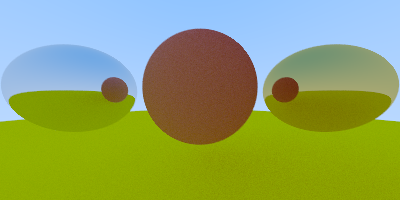
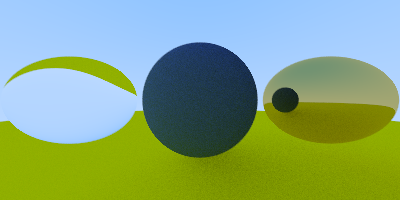
add refractive materials (with stack overflow possibility)

diff --git a/src/materials.rs b/src/materials.rs
@@ -53,11 +53,11 @@ impl Material for Lambertian {
 
 /// Represent reflective surfaces that reflect rays
 #[derive(Clone)]
-pub struct Metal {
+pub struct Reflective {
     albedo: Vec3,
 }
 
-impl Metal {
+impl Reflective {
     pub fn new(albedo: Vec3) -> Self {
         Self { albedo }
     }
@@ -67,7 +67,7 @@ impl Metal {
     }
 }
 
-impl Material for Metal {
+impl Material for Reflective {
     fn scatter(&self, r_in: &Ray, hit: &Hit) -> Option<(Vec3, Ray)> {
         let reflected = Self::reflect(r_in.direction().unit_vec(), hit.normal);
         let scattered = Ray::new(hit.p, reflected);
@@ -79,5 +79,54 @@ impl Material for Metal {
             return Some((attenuation, scattered));
         }
         None
+    }
+}
+
+/// Represent refractive materials that change rays angles
+/// I don't know why it was called dielectric...
+/// FWIW water is definitely not dielectric.
+#[derive(Clone)]
+pub struct Refractive {
+    refractive_index: f32,
+}
+
+impl Refractive {
+    pub fn new(refractive_index: f32) -> Self {
+        Self { refractive_index }
+    }
+
+    fn reflect(v: Vec3, n: Vec3) -> Vec3 {
+        v - 2.0 * v.dot(n) * n
+    }
+
+    fn refract(uv: Vec3, n: Vec3, ni_over_nt: f32) -> Option<Vec3> {
+        let dot = uv.dot(n);
+        let discriminant = 1.0 - ni_over_nt.powi(2) * (1.0 - dot * dot);
+        if discriminant > 0.0 {
+            return Some(ni_over_nt * (uv - n * dot) - n * discriminant.sqrt());
+        }
+        None
+    }
+}
+
+impl Material for Refractive {
+    fn scatter(&self, r_in: &Ray, hit: &Hit) -> Option<(Vec3, Ray)> {
+        let reflected = Self::reflect(r_in.direction().unit_vec(), hit.normal);
+        let (outward_normal, ni_over_nt) = if r_in.direction().dot(hit.normal) > 0.0 {
+            (-hit.normal, self.refractive_index)
+        } else {
+            (hit.normal, 1.0 / self.refractive_index)
+        };
+        let refracted = Self::refract(r_in.direction(), outward_normal, ni_over_nt);
+        let attenuation = Vec3::new(1.0, 1.0, 1.0);
+        // It's ineteresting that the following code overflows stack
+        // refracted
+        //     .map(|refracted| Some((attenuation, Ray::new(hit.p, refracted))))
+        //     .unwrap_or(Some((attenuation, Ray::new(hit.p, reflected))))
+        if let Some(refracted) = refracted {
+            return Some((attenuation, Ray::new(hit.p, refracted)));
+        } else {
+            return Some((attenuation, Ray::new(hit.p, reflected)));
+        }
     }
 }

diff --git a/src/main.rs b/src/main.rs
@@ -7,7 +7,7 @@ use image::{ImageBuffer, Rgb};
 use rand::Rng;
 use rt_in_1_weekend::{
     color,
-    materials::{Lambertian, Metal},
+    materials::{Lambertian, Reflective, Refractive},
     scene::{Camera, Sphere},
     utils, Surface,
 };
@@ -19,12 +19,12 @@ const DEPTH: i32 = 10;
 fn world<'a>() -> Vec<Box<dyn Surface>> {
     let mut world: Vec<Box<dyn Surface>> = vec![];
 
-    let diffuse1 = Box::new(Lambertian::new(Vec3::new(0.8, 0.3, 0.3)));
+    let diffuse1 = Box::new(Lambertian::new(Vec3::new(0.1, 0.2, 0.5)));
     let diffuse2 = Box::new(Lambertian::new(Vec3::new(0.8, 0.8, 0.0)));
-    let reflective1 = Box::new(Metal::new(Vec3::new(0.8, 0.6, 0.2)));
-    let reflective2 = Box::new(Metal::new(Vec3::new(0.8, 0.8, 0.8)));
+    let reflective1 = Box::new(Reflective::new(Vec3::new(0.8, 0.6, 0.2)));
+    let refractive = Box::new(Refractive::new(1.5));
     world.push(Box::new(Sphere::new(
-        Vec3::new(0.0, 0.1, -1.0),
+        Vec3::new(0.0, 0.0, -1.0),
         0.5,
         diffuse1,
     )));
@@ -36,12 +36,12 @@ fn world<'a>() -> Vec<Box<dyn Surface>> {
     )));
 
     world.push(Box::new(Sphere::new(
-        Vec3::new(-1.1, 0.1, -1.0),
+        Vec3::new(-1.1, -0.05, -1.0),
         0.4,
-        reflective2,
+        refractive,
     )));
     world.push(Box::new(Sphere::new(
-        Vec3::new(1.1, 0.1, -1.0),
+        Vec3::new(1.1, 0.0, -1.0),
         0.4,
         reflective1,
     )));
